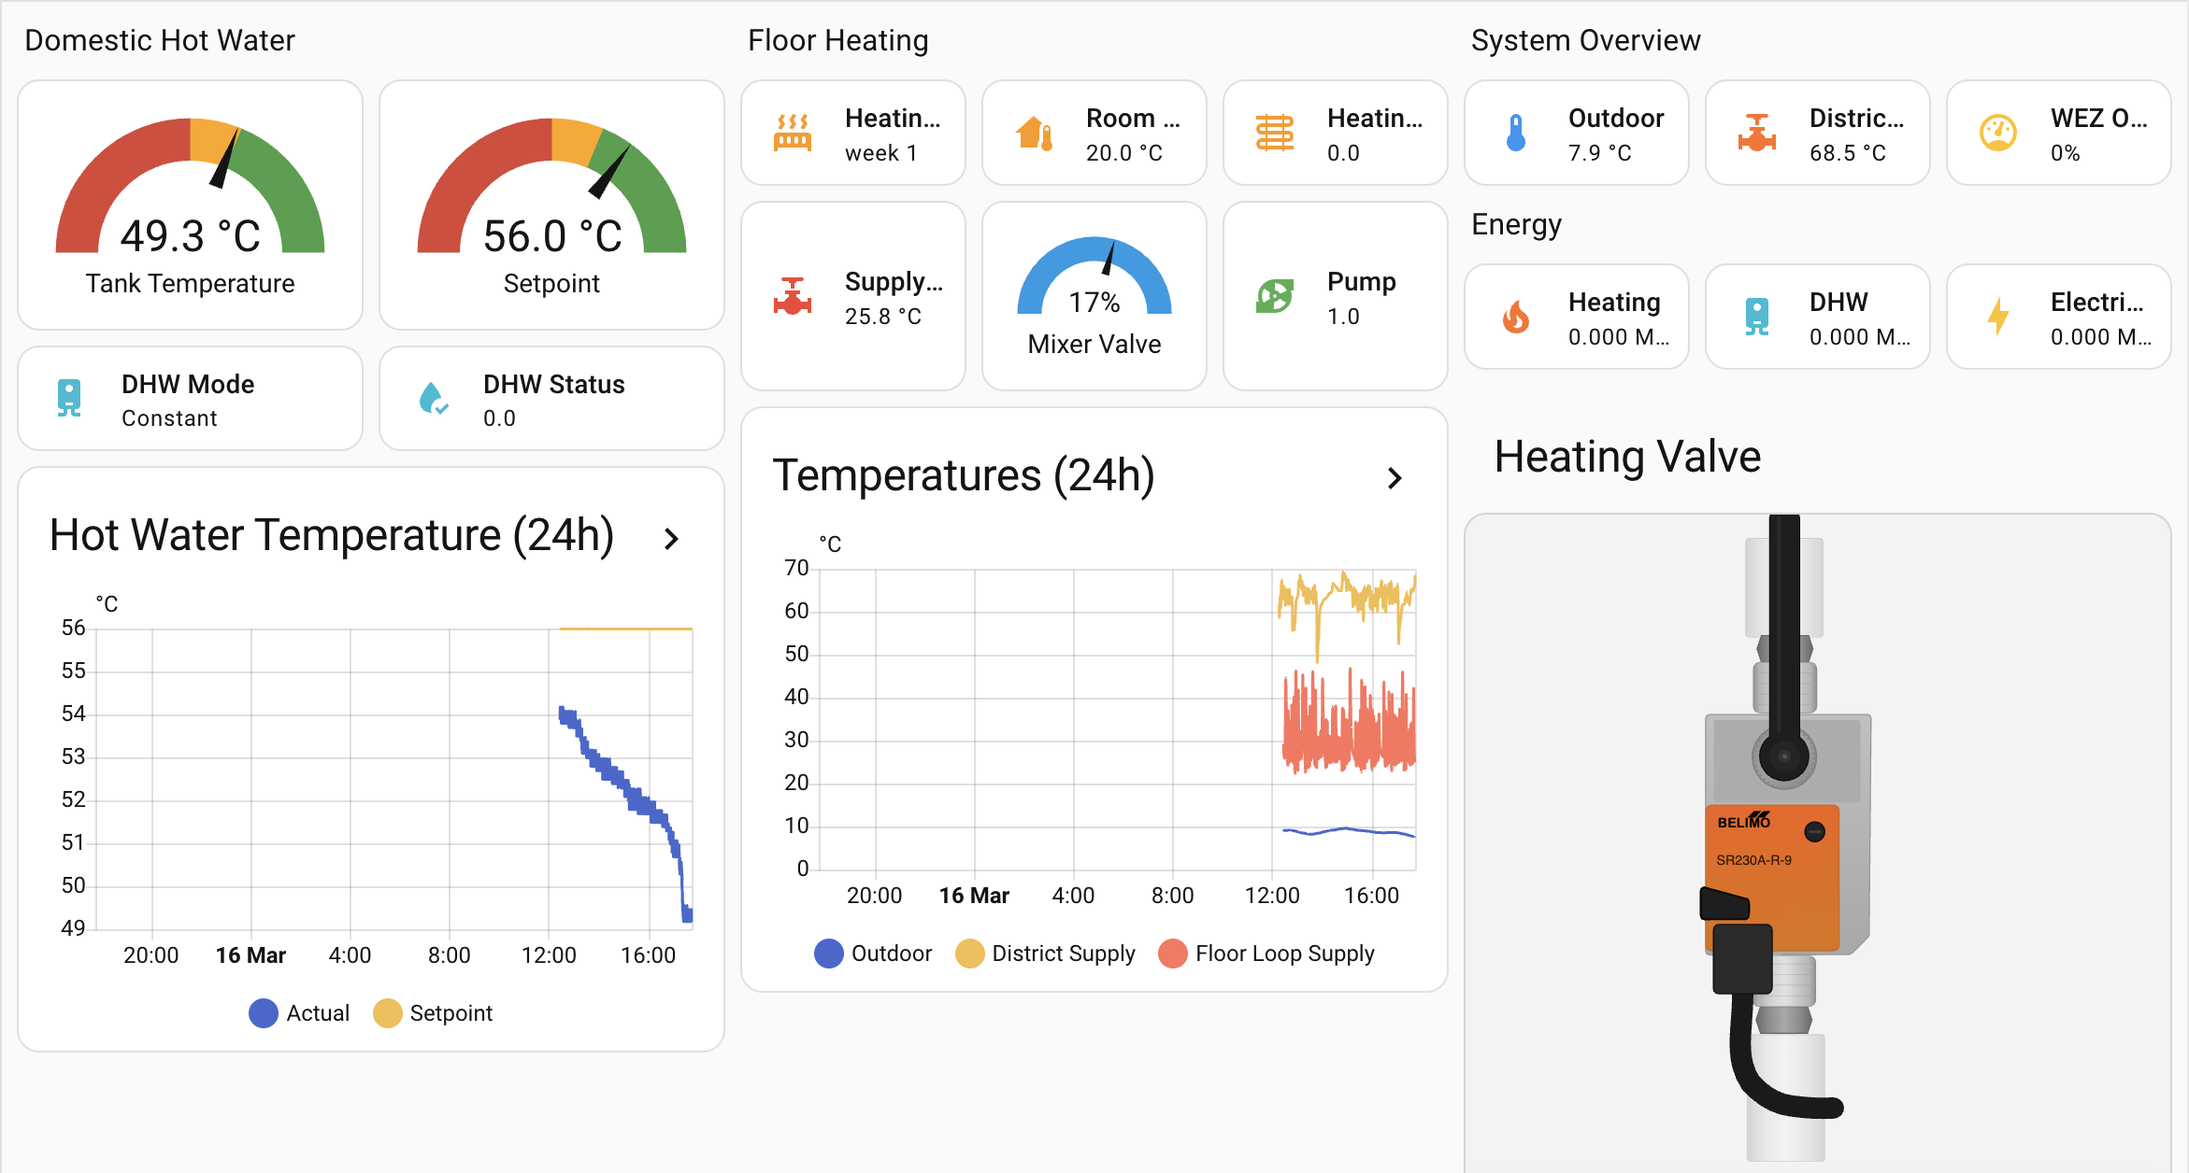
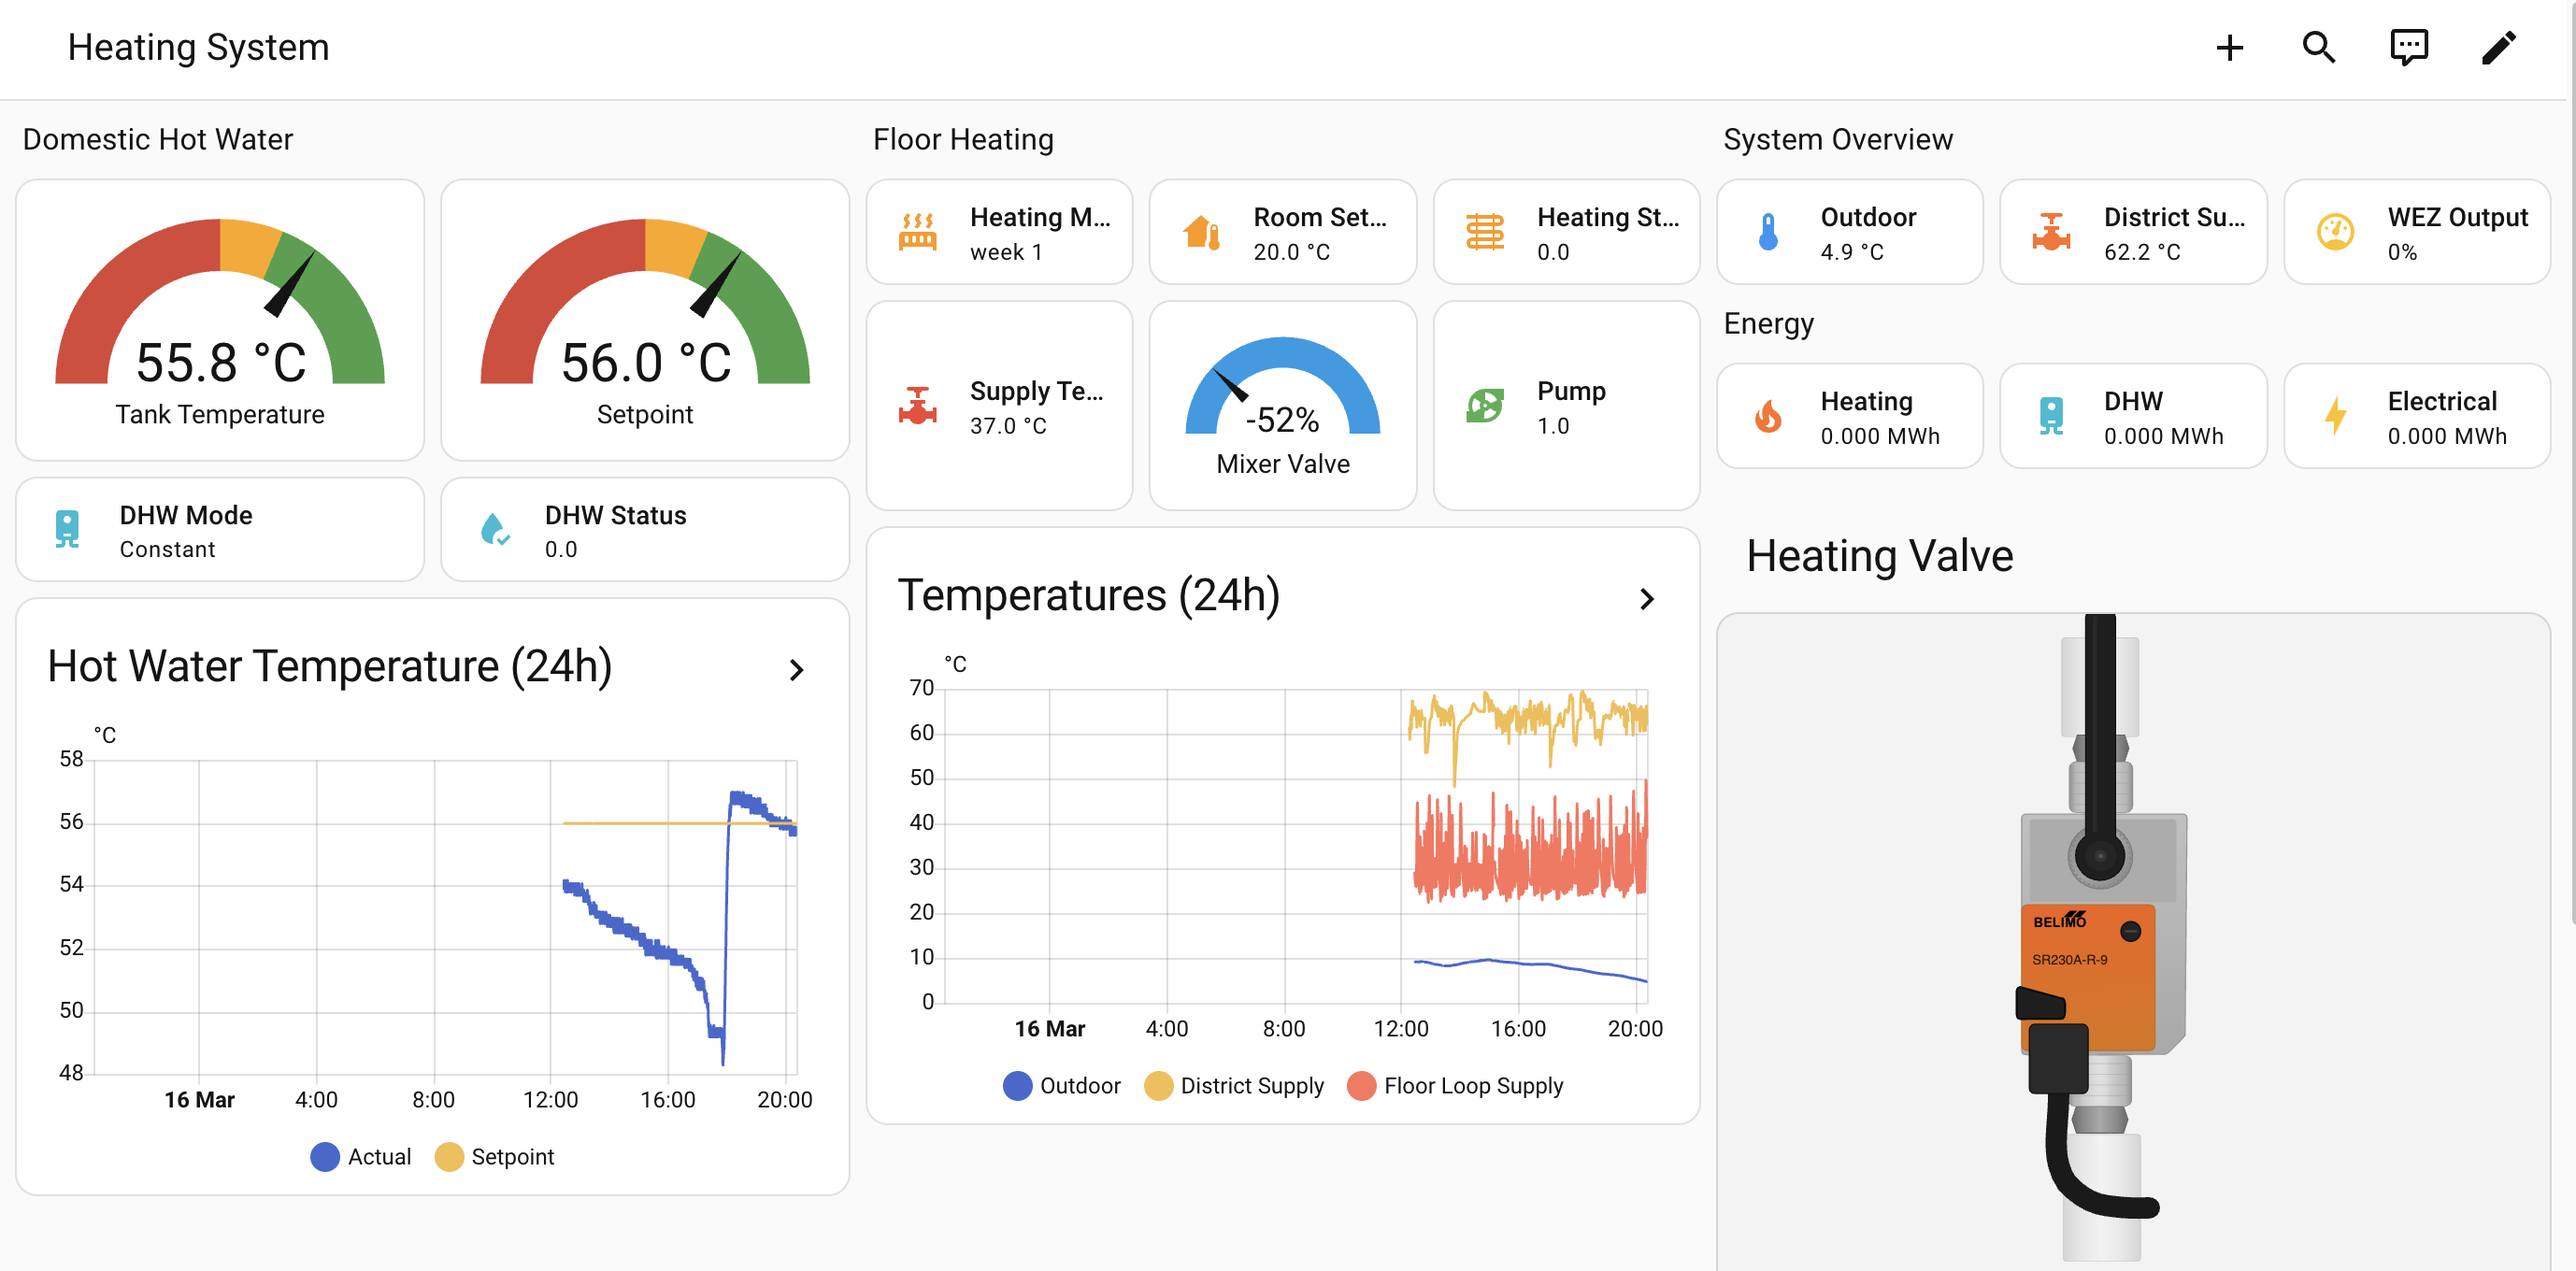
readme

diff --git a/README.md b/README.md
@@ -9,17 +9,26 @@ by [nliaudat]. It has since diverged significantly and is maintained independent
 
     
 ## Functionalities : 
-This firmware has been tailored to run on a WaveShare ESP32-S3 RS485 CAN Board. This is an off the shelf IoT CAN transceiver which has DIN rail mount. It can be neatly mounted inside the Hoval TopTronic E casing. It cost about 20CHF so this is a much cheaper option than the official Hoval HomeAssistant solution. (4-500CHF)
-* The software runs under esphome to be easy to customize and linked with https://www.home-assistant.io 
-* Power is taken from CanBus 12V 
+This firmware has been tailored to run on a WaveShare ESP32-S3 RS485 CAN Board (https://www.waveshare.com/wiki/ESP32-S3-RS485-CAN). This is an off the shelf IoT CAN transceiver which has DIN rail mount. It can be neatly mounted inside the Hoval TopTronic E casing. 
+<p align="center">
 
-## Firmware
+ <img src="esp32-s3-rs485-can-1.jpg" width=100% />
+     <br />
+ <img src="hoval_toptronic_e.jpg" width=100% />
+</p>
+It cost about 20CHF so this is a much cheaper option than the official Hoval HomeAssistant solution. (4-500CHF)
+* The software runs under esphome to be easy to customize and linked with https://www.home-assistant.io 
+* Power is taken from CanBus 12V directly from the Hoval
+
+## Home Assistant Dashboard
 
 <p align="center">
-    <img src="esphome/home_assistant.png" width=80% />
+    <img src="home_assistant.png" width=100% />
     <br />
     <i>web interface at http://canbus.local/</i>
 </p>
+Please ignore the valve actuator, this is part of another smaller project   
+
 
 ### Features
 
@@ -46,14 +55,7 @@ Version: 2023.11.6
 
 Enter your Wifi SSID and password in `secrets.yaml`.<br />
 
-3. Select your desired presets. All presets are located at [`esphome/src/preset`](https://github.com/nliaudat/esp_canbus/tree/main/esphome/src/preset). <br /> e.g. to select the HV preset in French:
-
-```yaml
-packages:
-  # ...
-  hv_sensors: !include src/preset/HV/sensors_fr.yaml
-  hv_inputs: !include src/preset/HV/inputs_fr.yaml
-```
+3. Select your desired presets. All presets are located at [`esphome/src/preset`]
 
 If you want to create your own preset or need other datapoints have a look at [`esphome/hoval_data_processing`](https://github.com/nliaudat/esp_canbus/tree/main/esphome/hoval_data_processing)
 
@@ -64,7 +66,6 @@ Then run `esphome run config.yaml`
 
 ## Note: 
 Not maintained for HomeVent 
-
 
 
 ## Licence: 
